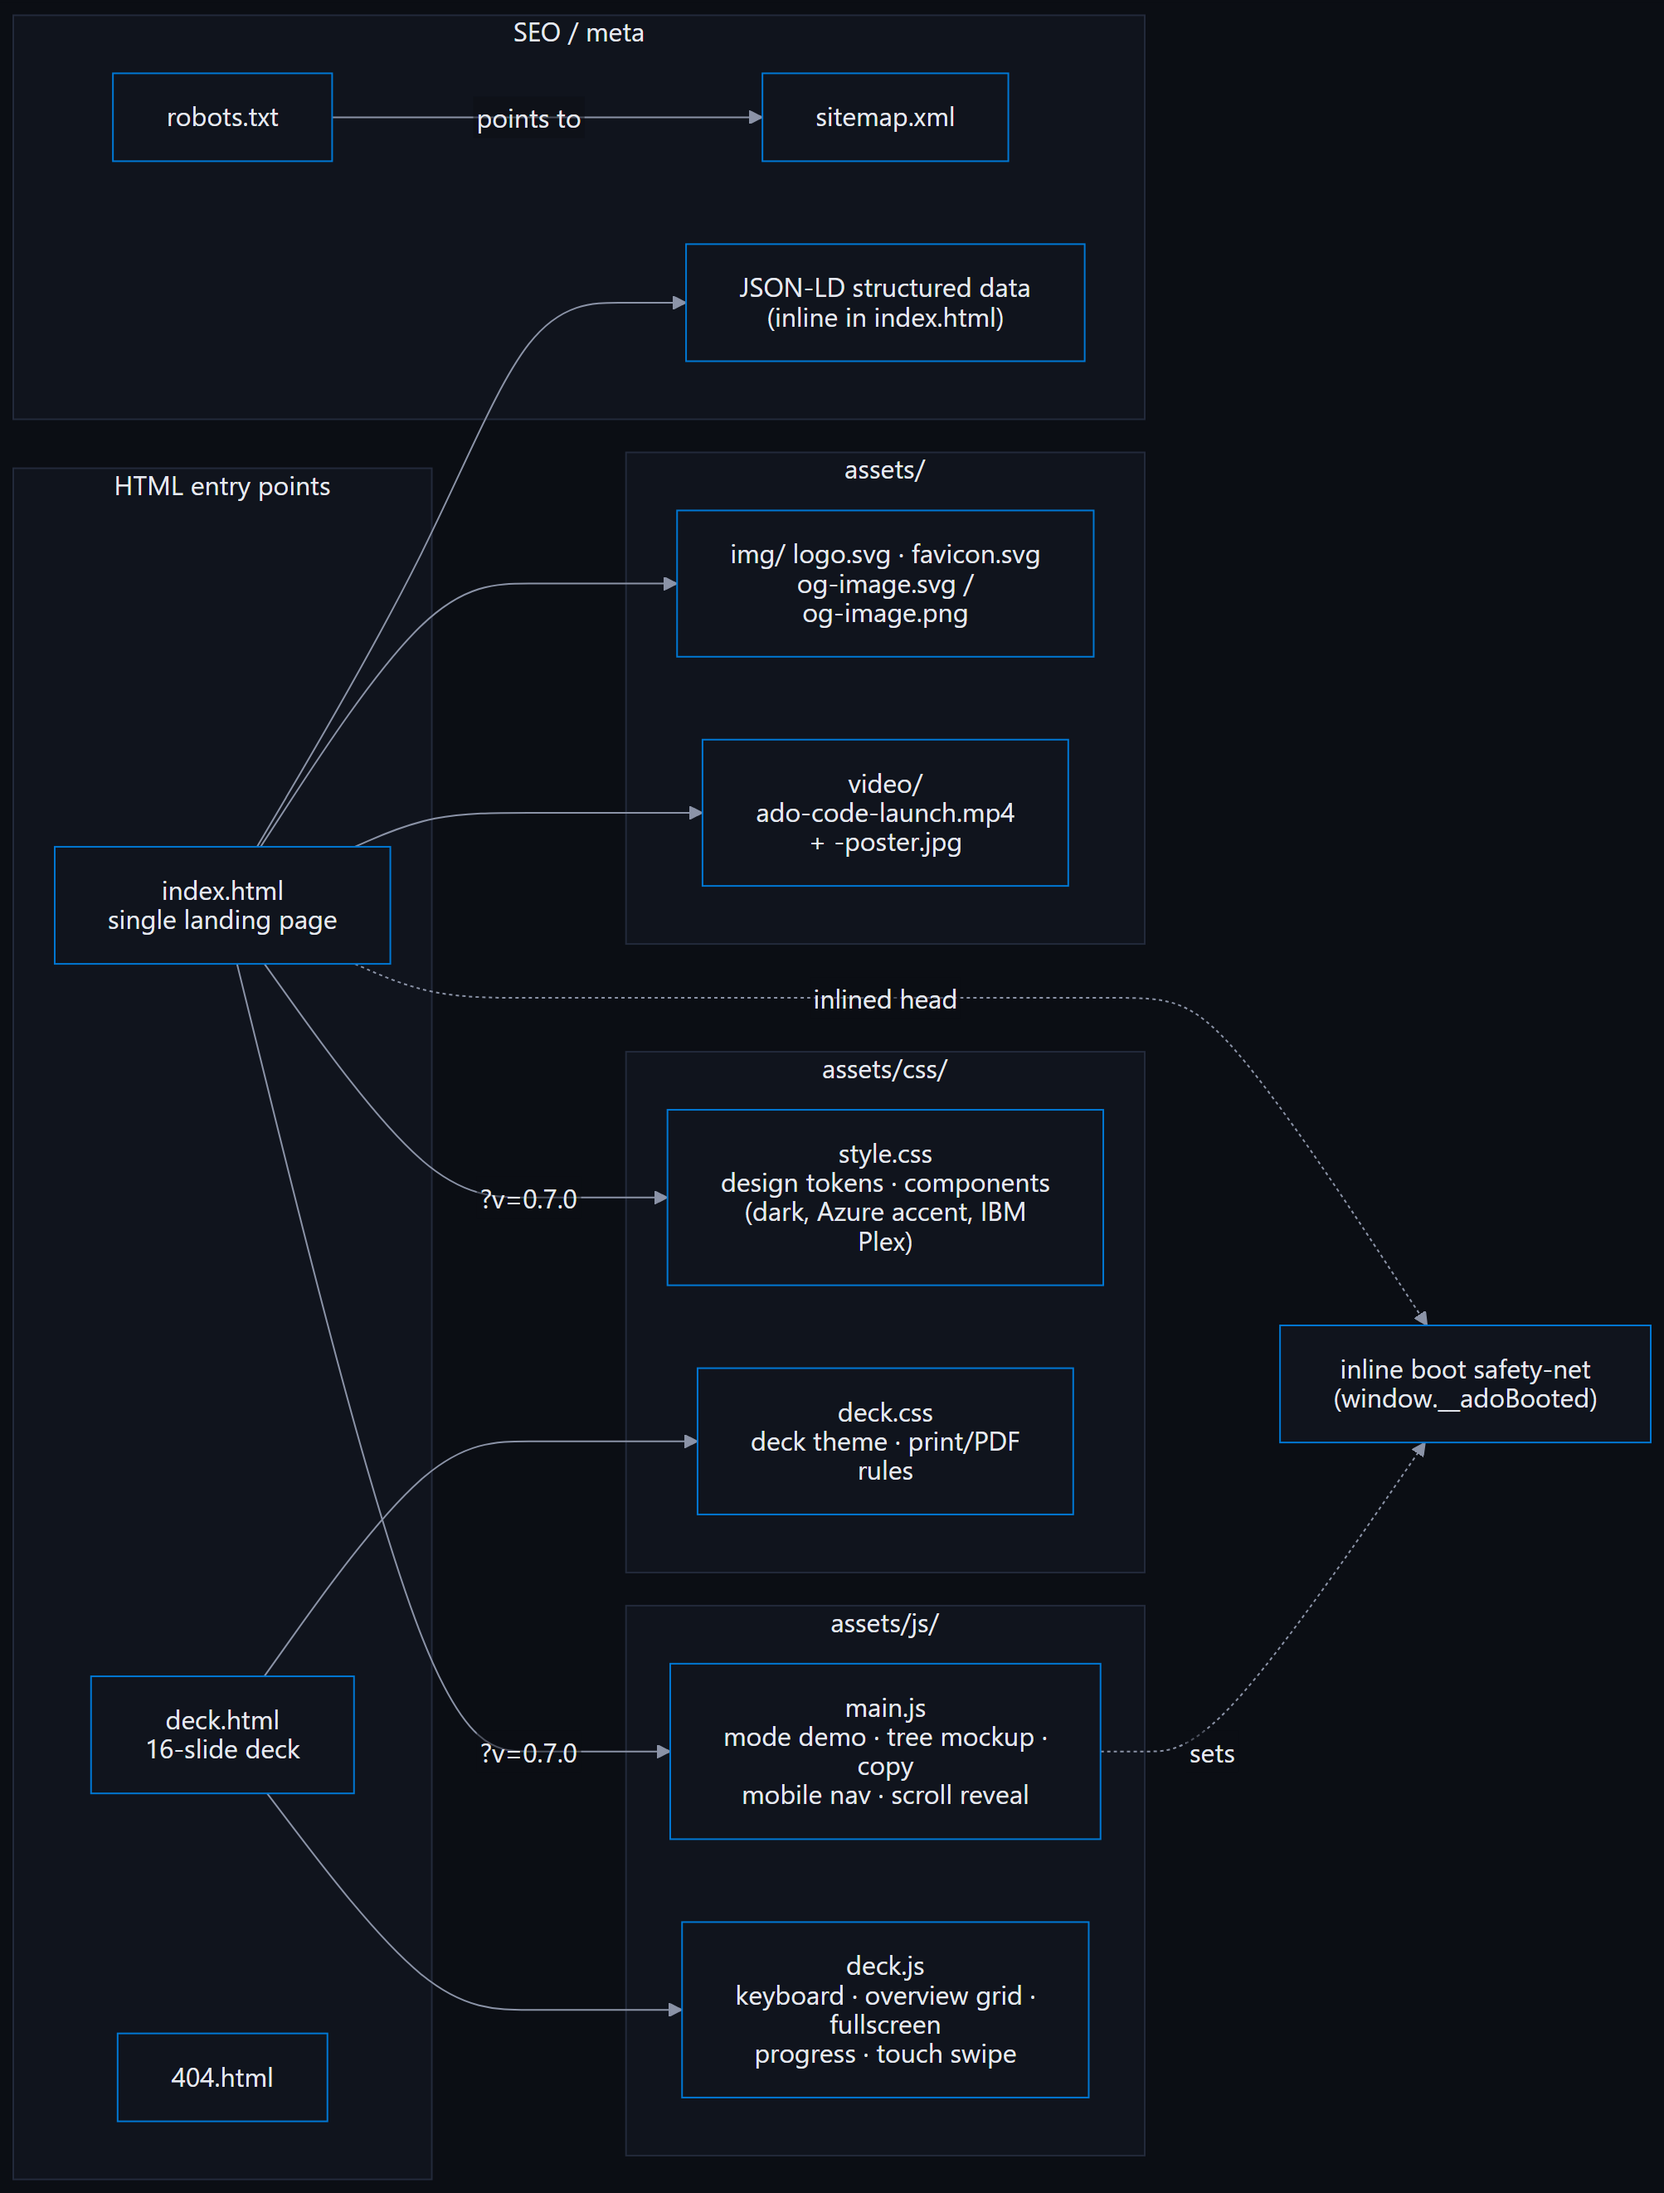
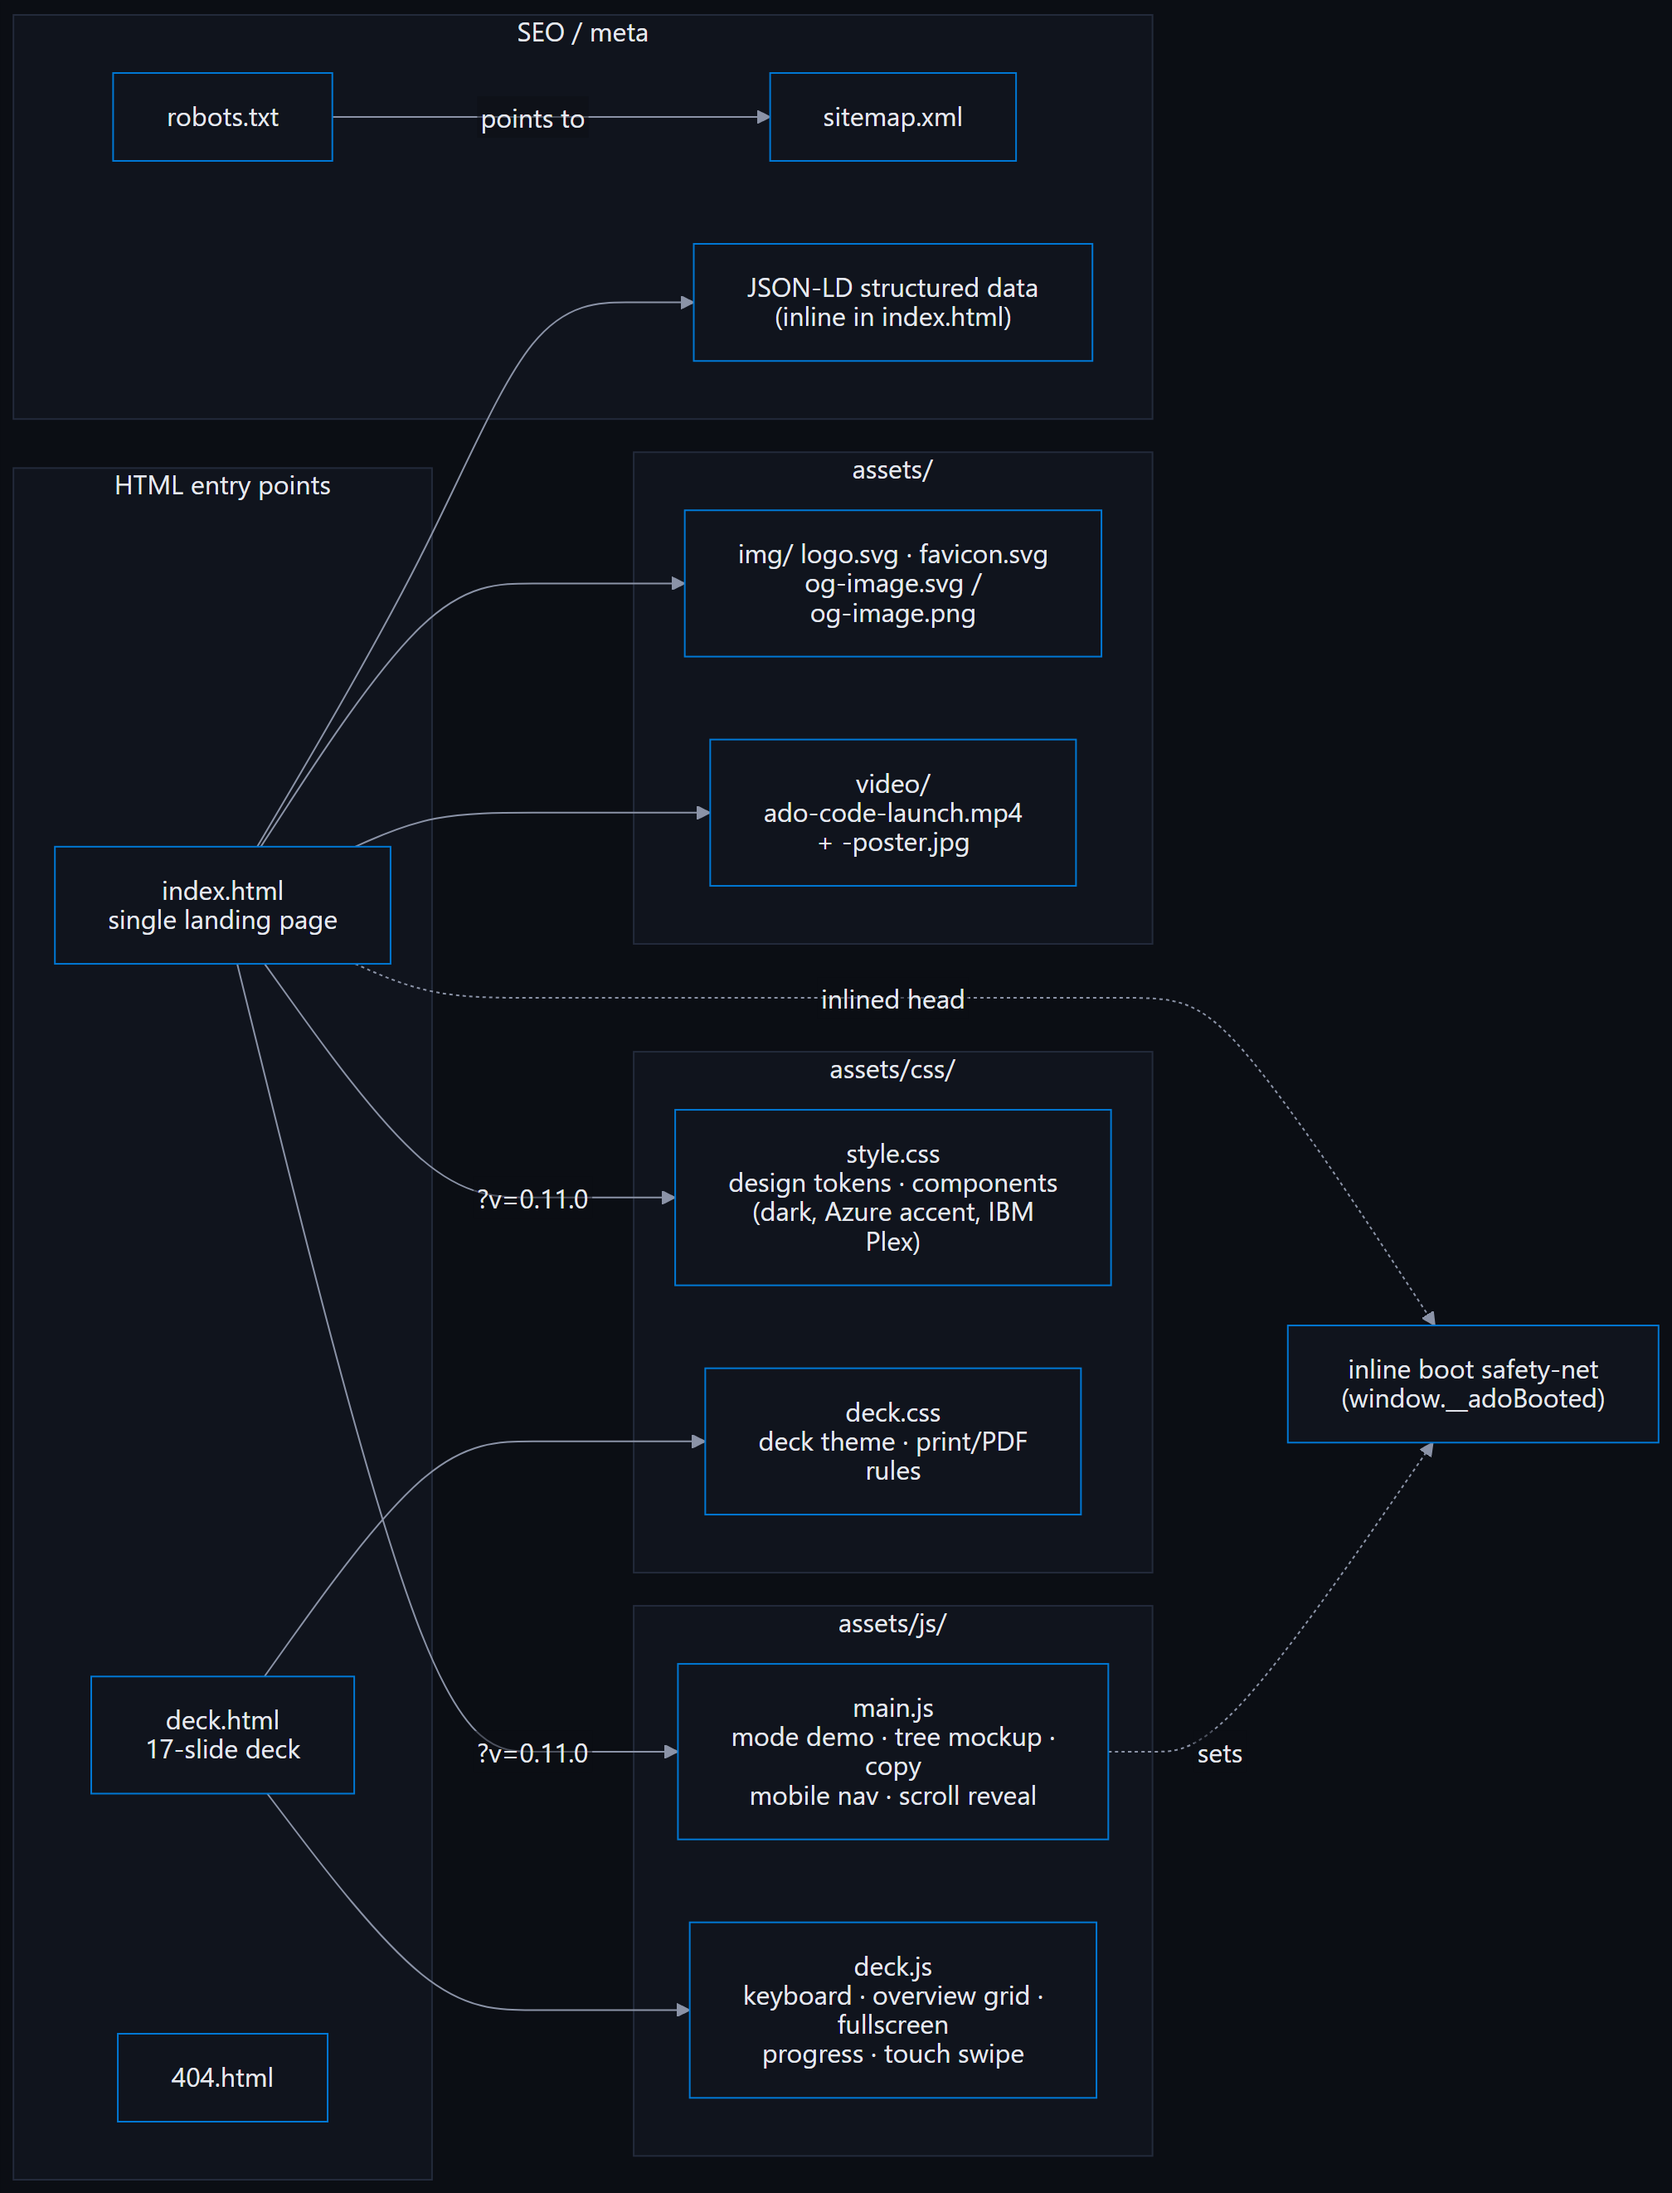
fix(docs): re-point the architecture diagram's asset edges at SITE_VERSION
The IDX->STY/MAIN mermaid edges advertised ?v=0.7.0 since the multi-page split while the site shipped ?v=0.11.0, and the deck node still said 16-slide after the deck grew to 17. Unguarded, so the committed SVG/PNG export embedded the stale label too.

Regenerated the export; taught set-site-version.mjs to rewrite the doc alongside the root pages so a SITE_VERSION bump cannot leave it stale; new tests/architecture-doc.test.mjs pins the doc, the exported SVGs and the deck slide count. Suite 199 -> 202.

diff --git a/CHANGELOG.md b/CHANGELOG.md
@@ -26,6 +26,9 @@ All notable changes to the ADO Code website.
   document the documented release's capability set (steer/queue, density modes,
   delegation suggestions, the declutter pass, background runs, archived goals and
   the settings-coverage guard). Suite 197 → 198.
+- New guard in `tests/architecture-doc.test.mjs`: the architecture doc must
+  label its asset edges with `SITE_VERSION`, its committed SVG exports must match,
+  and its deck slide count must match `deck.html`. Suite 199 → 202.
 
 ### Changed
 
@@ -50,6 +53,12 @@ All notable changes to the ADO Code website.
   setting). Guarded by a new test, "the deck's What's new slide covers the release
   capability set", so the deck can no longer lag the table when rows are added for a
   release.
+- **`docs/architecture.md` cache-bust drift fixed** — the diagram’s IDX→STY/MAIN
+  edges had advertised `?v=0.7.0` since the page split while the site shipped
+  `?v=0.11.0`, and the deck node still read “16-slide”. The mermaid source and its
+  exported SVG/PNG now read `?v=0.11.0` / `17-slide`, and
+  `scripts/set-site-version.mjs` rewrites the doc alongside the root pages, so the
+  next `SITE_VERSION` bump cannot leave it stale.
 
 ## [0.11.0] — 2026-09-30
 

diff --git a/docs/architecture.md b/docs/architecture.md
@@ -80,7 +80,7 @@ their assets.
 flowchart LR
     subgraph Pages["HTML entry points"]
         IDX["index.html<br/>single landing page"]
-        DECK["deck.html<br/>16-slide deck"]
+        DECK["deck.html<br/>17-slide deck"]
         E404["404.html"]
     end
 
@@ -105,8 +105,8 @@ flowchart LR
         LD["JSON-LD structured data<br/>(inline in index.html)"]
     end
 
-    IDX -->|"?v=0.7.0"| STY
-    IDX -->|"?v=0.7.0"| MAIN
+    IDX -->|"?v=0.11.0"| STY
+    IDX -->|"?v=0.11.0"| MAIN
     IDX --> IMG
     IDX --> VID
     IDX --> LD
@@ -130,7 +130,11 @@ Notes:
   navigation, `G` overview grid, `N` speaker notes, `F` fullscreen, progress bar,
   and touch swipe.
 - Assets are referenced with a **`?v=` cache-bust query string** so nginx's
-  `immutable` caching can be used safely (see §4).
+  `immutable` caching can be used safely (see §4). The `?v=` labels on the
+  IDX→STY/MAIN edges above therefore track `SITE_VERSION`
+  (`scripts/site-version.mjs`): `node scripts/set-site-version.mjs` rewrites
+  them together with the pages, and `tests/architecture-doc.test.mjs` fails if
+  they drift.
 
 ---
 
